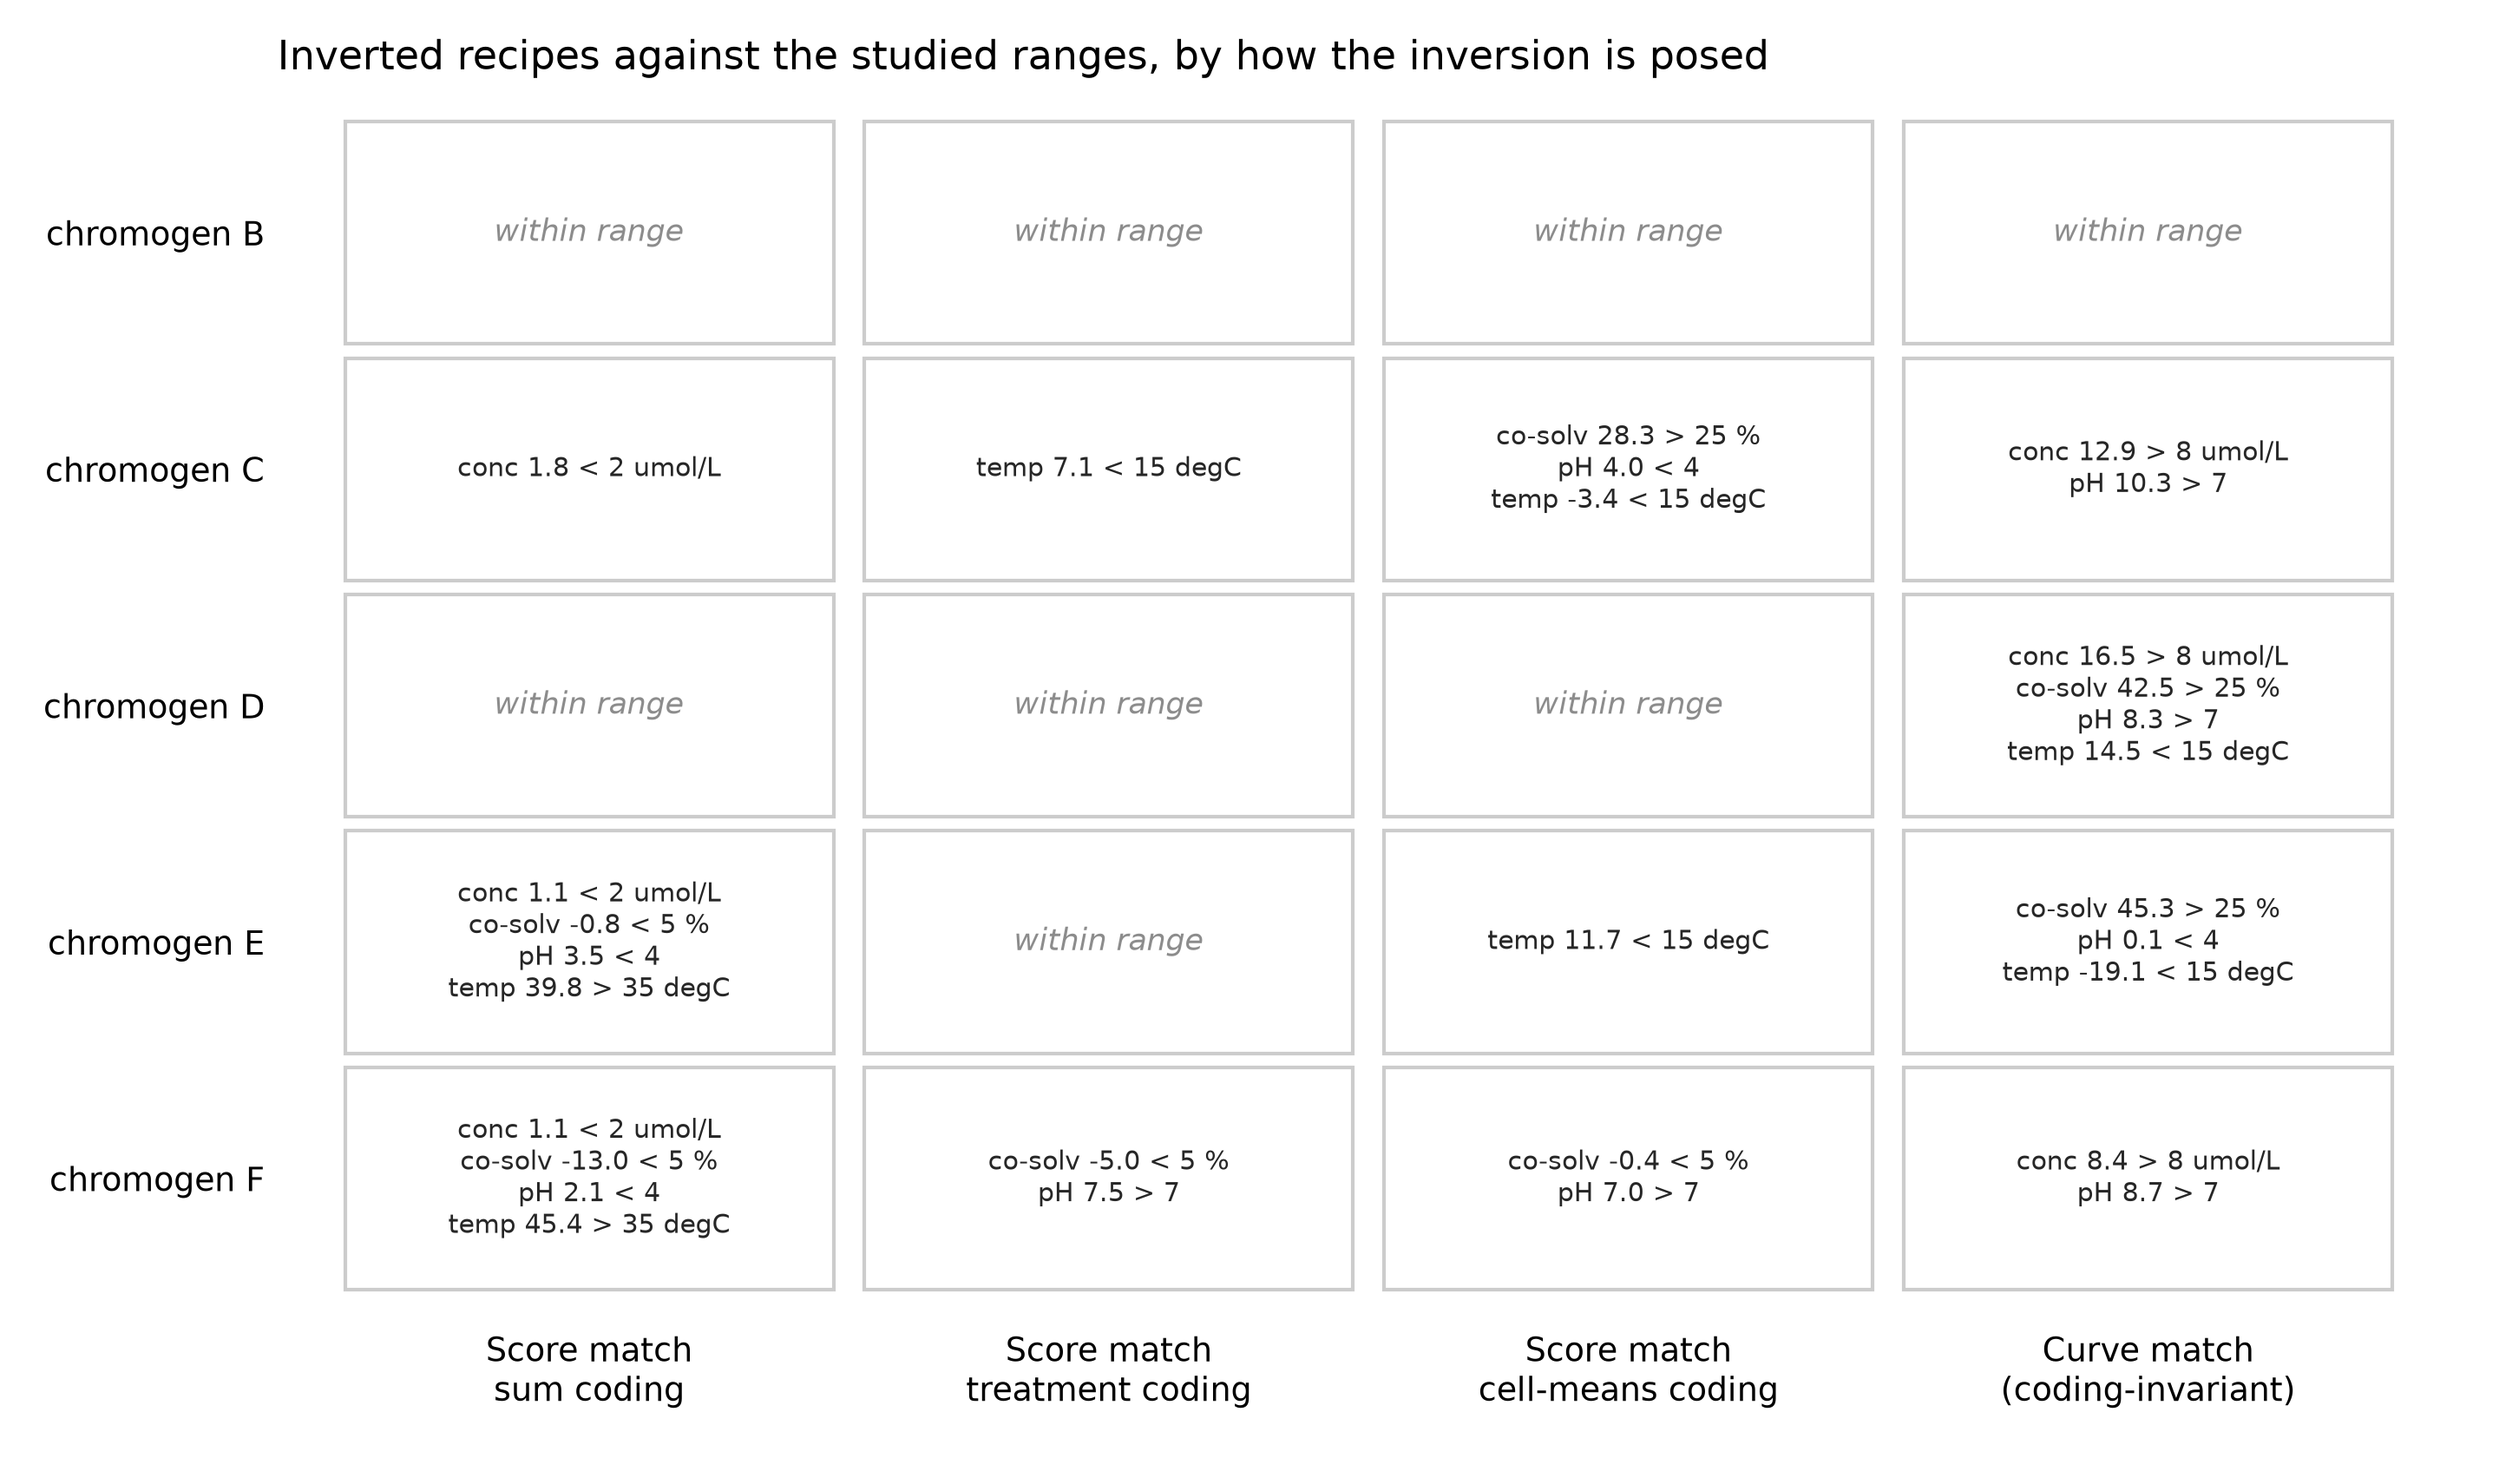
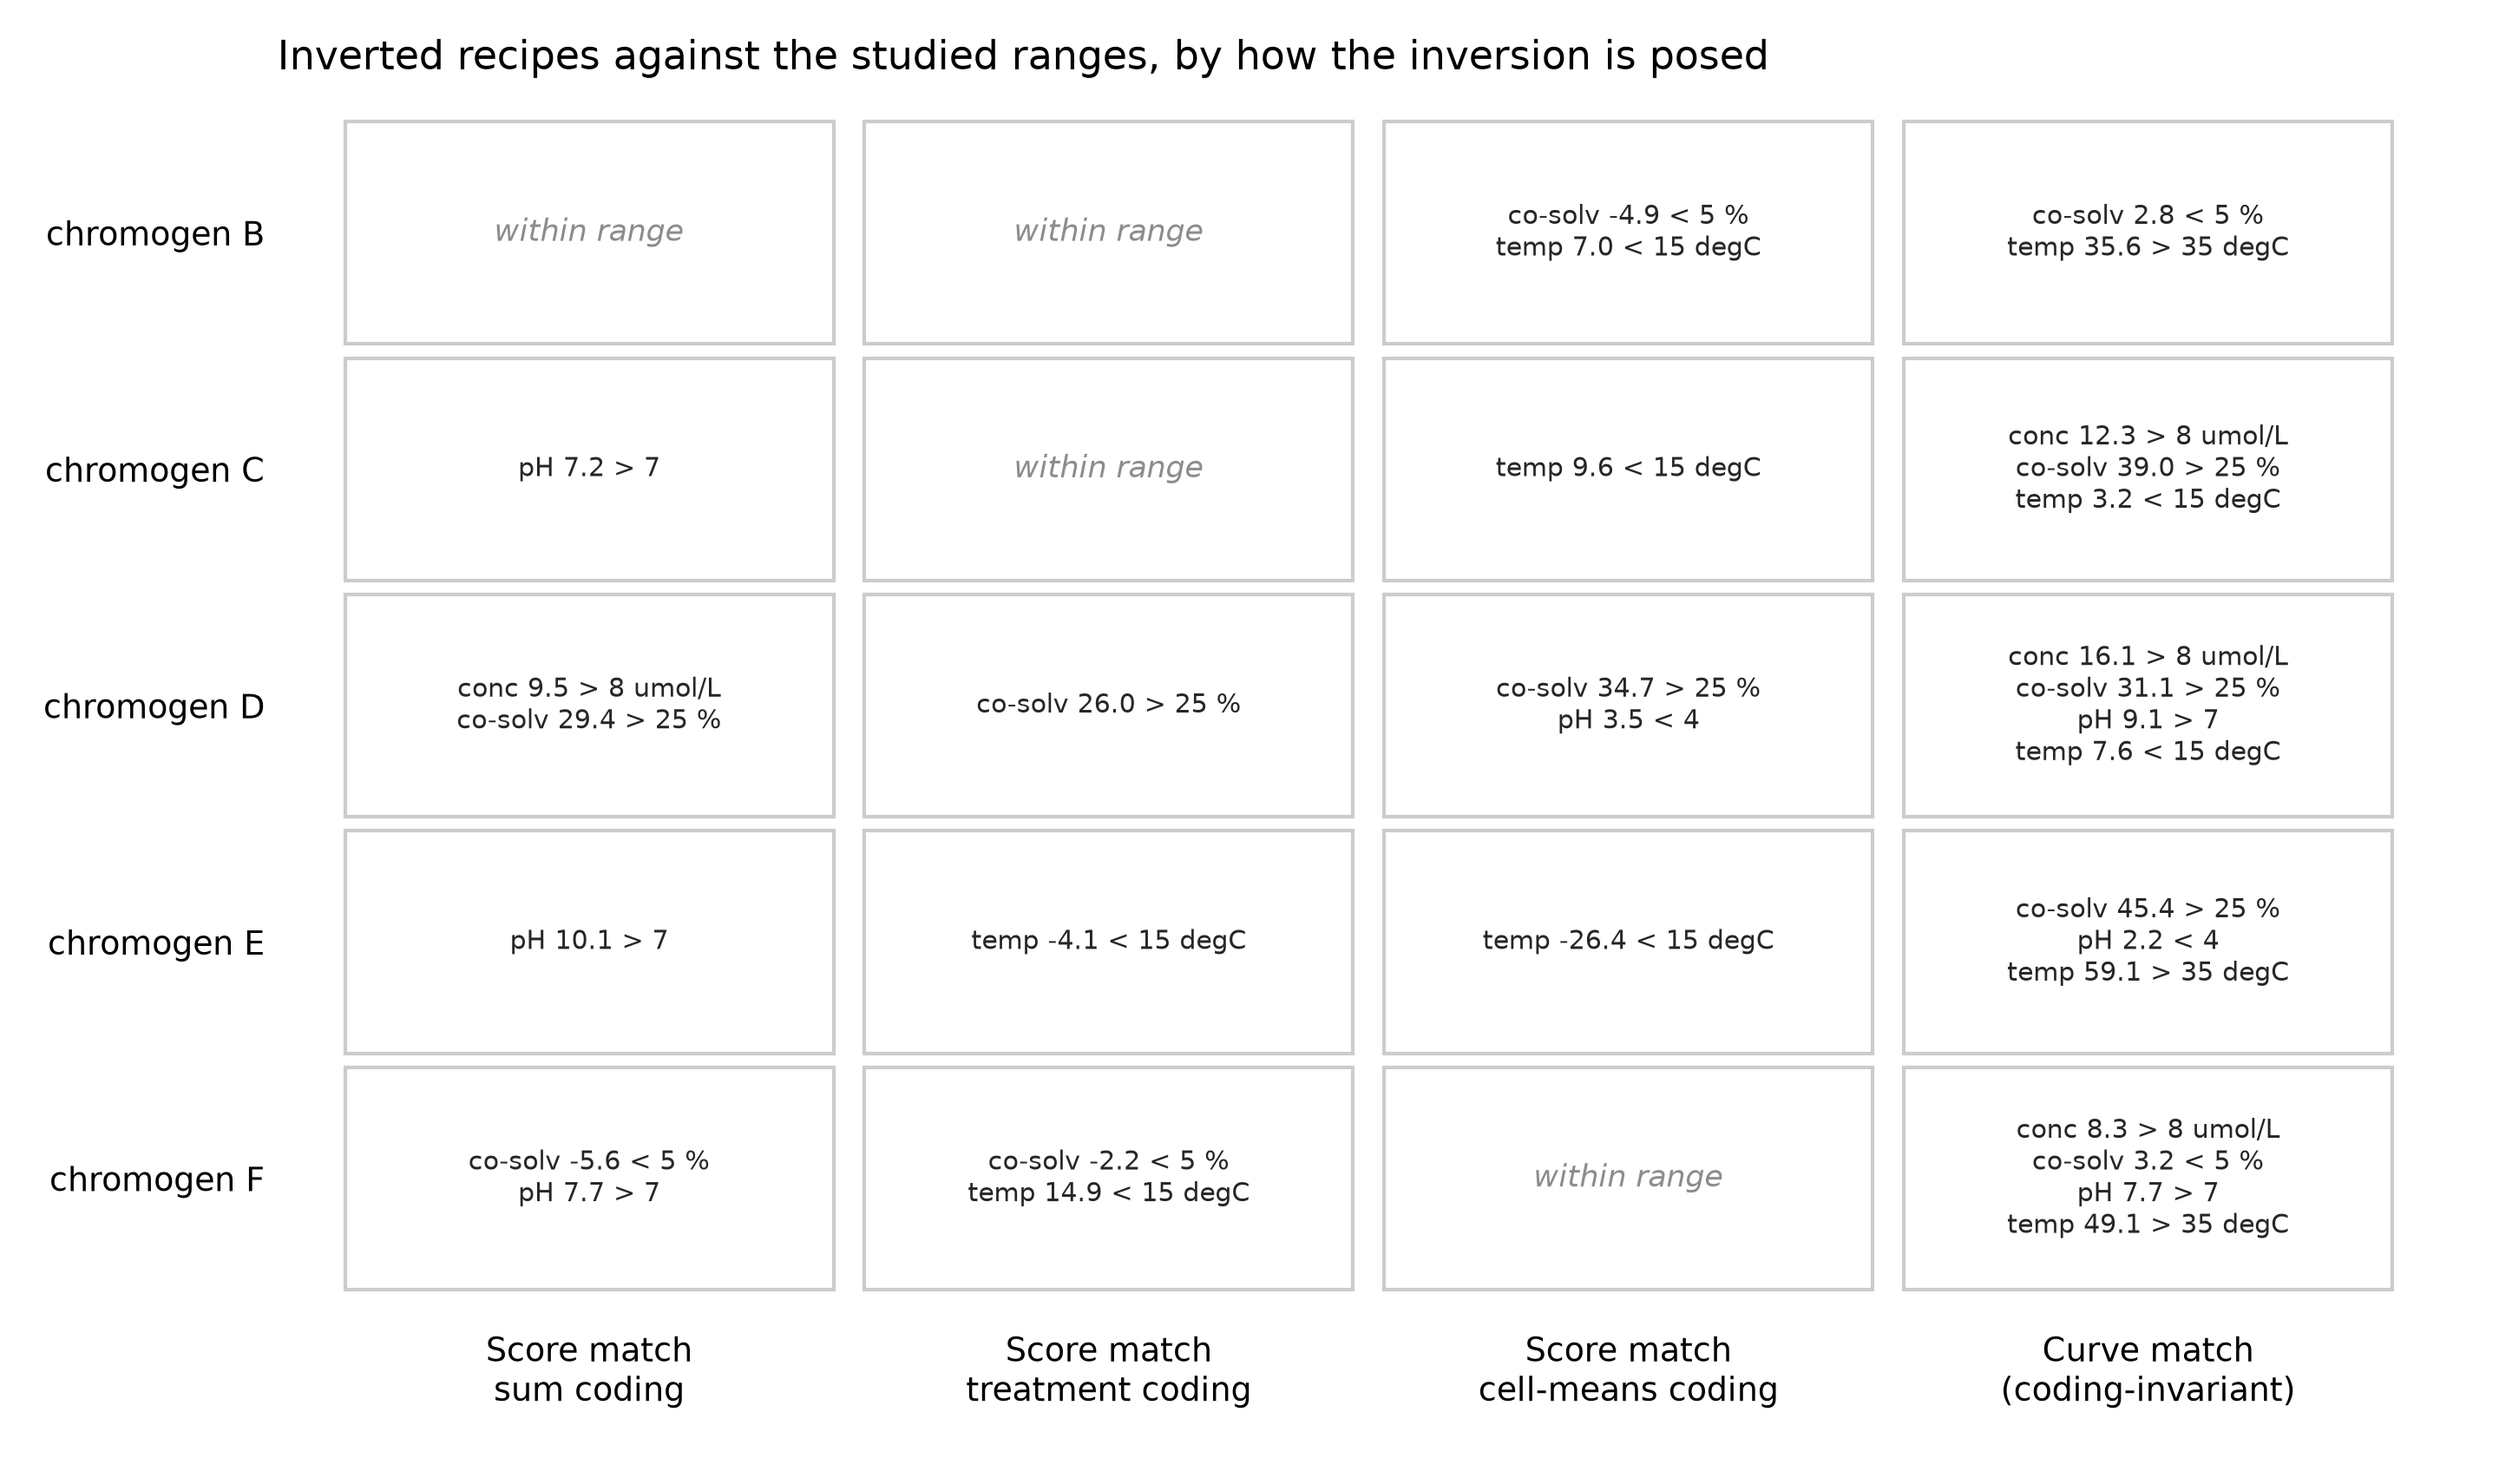
Regenerate the colour inversion figures
Redrawn from the new split-plot design. The score-match inversion under
sum coding now keeps only B inside the studied ranges, and the docstring
of colour-pls-inversion.py says which factors each other candidate needs
outside them.

Claude-Session: https://claude.ai/code/session_01LuZsAwoXkHeFZCALLWGpgv

diff --git a/doe/colour-pls-inversion.py b/doe/colour-pls-inversion.py
@@ -4,9 +4,9 @@ Model inversion finds, for each candidate chromogen, the minimum-adjustment cont
 settings whose score matches the reference goal (chromogen A at the centre point). This plots those
 settings in coded units, one row per factor, one marker per chromogen. The band between the dashed
 lines at -1 and +1 is the studied range; a marker outside it is a setting the experiment never
-explored. B and D can be compensated within the ranges; C needs a concentration just below the
-studied window, and E and F need all four factors beyond it, so they cannot be made to match the
-reference there.
+explored. Only B can be compensated within the ranges; C needs a pH just above the studied window,
+D a higher concentration and co-solvent, E a pH far above the window, and F a lower co-solvent and
+a higher pH, so they cannot be made to match the reference there.
 Regenerates ``colour-pls-inversion.png``.
 """
 
